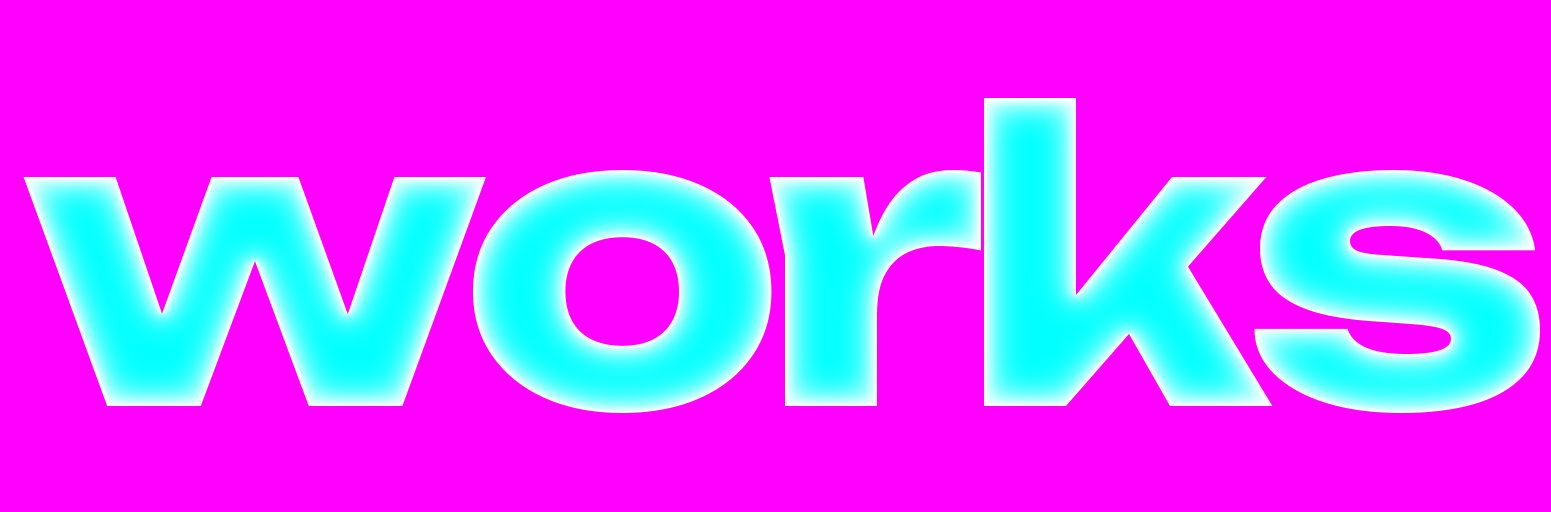
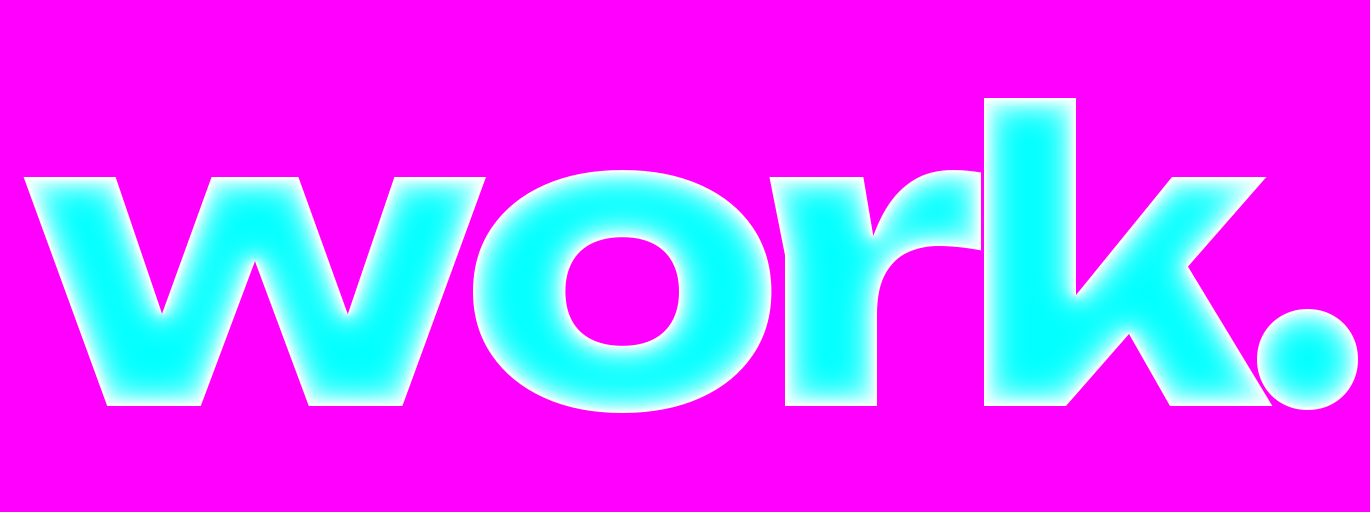
首页大标题改为 Bring an idea. / Make it / work.
- 三行全部靠左，第一行和 "work." 加光标按字形墨迹撑满同一宽度，左右边对齐
- 状态行挪到标题上方，光标改成细竖线
- 重新生成 "work." 的液态金属遮罩，生成脚本里的单词改为常量
- 网页标题和 README 同步新标题

diff --git a/src/app/motion.css b/src/app/motion.css
@@ -4241,7 +4241,7 @@ html.fx:not(.booted) .top {
   position: relative;
   display: grid;
   grid-template-columns: minmax(0, 1fr);
-  grid-template-rows: auto repeat(4, auto) auto;
+  grid-template-rows: auto auto repeat(3, auto) auto;
   perspective: 1600px;
   container-type: inline-size;
 }
@@ -4278,15 +4278,19 @@ html.fx:not(.booted) .top {
   font-weight: 400;
   color: var(--mute);
 }
+/* Flush both edges: "Bring an idea." and "work." + caret fill the width, measured
+   on the glyph ink of Unbounded 800 (not the side bearings):
+   "Bring an idea." 7.822em wide, starts .0436em in; "Make it" starts .0648em in;
+   "work." 3.274em + .22em caret. --height-fit shrinks every line together. */
 .h1x {
-  grid-row: 2 / 6;
+  grid-row: 3 / 6;
   grid-column: 1;
   display: grid;
   grid-template-rows: subgrid;
   margin: 0;
   font-family: var(--f-display);
   font-weight: 800;
-  font-size: calc(100cqw / 9.28 * var(--height-fit, 1));
+  font-size: calc(99.6cqw / 7.822 * var(--height-fit, 1));
   line-height: 0.9;
   letter-spacing: -0.055em;
   transform-style: preserve-3d;
@@ -4302,10 +4306,6 @@ html.fx:not(.booted) .top {
 }
 .hstage.intro-done .h1x .line {
   overflow: visible;
-}
-.h1x .r {
-  text-align: right;
-  align-self: end;
 }
 .h1x .dz {
   display: block;
@@ -4324,12 +4324,17 @@ html.fx:not(.booted) .top {
 .l4 {
   --z: 110px;
 }
+.h1x .line.l1 {
+  margin-left: -0.0436em;
+}
+.h1x .line.l2 {
+  margin-left: -0.0648em;
+}
 .h1x .l4 {
-  font-size: calc(99cqw / 4.32 * var(--height-fit, 1));
+  font-size: calc(99.6cqw / 3.494 * var(--height-fit, 1));
   line-height: 0.84;
   letter-spacing: -0.06em;
   padding-block: 0.02em 0.1em;
-  margin-top: 0.04em;
 }
 .h1x .fx {
   display: inline-block;
@@ -4353,9 +4358,6 @@ html.fx:not(.booted) .top {
   );
   transform: scaleX(0);
   transform-origin: 0 50%;
-}
-.h1x .r::after {
-  transform-origin: 100% 50%;
 }
 .headline-ready .h1x .line::after {
   transform: none;
@@ -4408,9 +4410,10 @@ html.fx:not(.booted) .top {
     0 0,
     0 var(--cy, 70%);
 }
+/* A thin caret, so "work." keeps the weight of the last line. */
 .h1x .cursor {
-  width: 0.46em;
-  height: 0.76em;
+  width: 0.14em;
+  height: 0.7em;
   vertical-align: -0.02em;
 }
 /* "works": liquid metal (Paper Shaders) + a build that runs on hover / click */
@@ -4498,15 +4501,16 @@ html.fx:not(.booted) .top {
     font-size: 9.5px;
   }
 }
+/* Every headline line is flush left, so the status row sits above them. */
 .hmeta {
-  grid-row: 3;
+  grid-row: 2;
   grid-column: 1;
-  align-self: center;
   justify-self: start;
   z-index: 2;
-  display: grid;
-  gap: 8px;
-  max-width: 24%;
+  display: flex;
+  flex-wrap: wrap;
+  gap: 8px 20px;
+  margin-bottom: clamp(16px, 2vw, 28px);
 }
 .hmeta span {
   display: inline-flex;
@@ -4589,9 +4593,6 @@ html.fx:not(.booted) .top {
     font-size: 13.2vw;
     transform: none !important;
   }
-  .h1x .r {
-    text-align: left;
-  }
   .h1x .fx {
     display: inline;
     white-space: normal;
@@ -4639,9 +4640,6 @@ html.fx:not(.booted) .top {
 .hmeta .live {
   white-space: nowrap;
 }
-.hmeta {
-  max-width: 34%;
-}
 .works-metal {
   inset: -0.22em -0.06em;
 }
@@ -4658,10 +4656,10 @@ html.fx:not(.booted) .top {
     padding-block: 88px 96px;
   }
   .h1x {
-    font-size: calc(100cqw / 9.28);
+    font-size: calc(99.6cqw / 7.822);
   }
   .h1x .l4 {
-    font-size: calc(99cqw / 4.32);
+    font-size: calc(99.6cqw / 3.494);
   }
   .hmeta {
     margin-bottom: 28px;
@@ -4689,8 +4687,7 @@ html.fx:not(.booted) .top {
   }
 }
 
-/* Actual self-hosted Unbounded metrics: 9.2525em for the third line.
-   Leave a small margin so rounding cannot wrap it on a narrow phone. */
+/* Lines never wrap on a phone; the sizes above already fit the width. */
 @media (max-width: 760px) {
   .h1x .fx {
     display: inline-block;

diff --git a/src/components/hero-headline.tsx b/src/components/hero-headline.tsx
@@ -328,10 +328,7 @@ export function HeroHeadline({
         <i />
         <b className="dim-f tnum">UNBOUNDED 800</b>
       </div>
-      <h1
-        className="h1x"
-        aria-label="Bring an idea. Leave with something that works."
-      >
+      <h1 className="h1x" aria-label="Bring an idea. Make it work.">
         <span className="line l1" style={lineStyle(0)} aria-hidden>
           <span className="dz">
             <span className="fx">
@@ -350,20 +347,15 @@ export function HeroHeadline({
             </span>
           </span>
         </span>
-        <span className="line l2 r" style={lineStyle(1)} aria-hidden>
+        <span className="line l2" style={lineStyle(1)} aria-hidden>
           <span className="dz">
-            <span className="fx">Leave with</span>
+            <span className="fx">Make it</span>
           </span>
         </span>
-        <span className="line l3" style={lineStyle(2)} aria-hidden>
-          <span className="dz">
-            <span className="fx chrome2">something that</span>
-          </span>
-        </span>
-        <span className="line l4" style={lineStyle(3)} aria-hidden>
+        <span className="line l4" style={lineStyle(2)} aria-hidden>
           <span className="dz">
             <span className="works-wrap">
-              <span className="fx chrome2 works-text">works</span>
+              <span className="fx chrome2 works-text">work.</span>
               <WorksMetal />
               <span className="wstat mono">
                 <i className="led" />

diff --git a/src/components/works-metal.tsx b/src/components/works-metal.tsx
@@ -3,7 +3,7 @@
 import { useEffect, useRef } from "react";
 import type { ShaderMount } from "@paper-design/shaders";
 
-/** Height map: scripts/generate-works-metal.py, Unbounded 800, spacing -.06em.
+/** Height map of "work.": scripts/generate-works-metal.py, Unbounded 800, spacing -.06em.
  * It includes .06em horizontal / .22em vertical padding, like polish-demo.
  * Regenerate after changing the word/font; the browser never processes text. */
 export function WorksMetal() {

diff --git a/src/app/layout.tsx b/src/app/layout.tsx
@@ -35,7 +35,7 @@ const notoSc = Noto_Sans_SC({
 export const metadata: Metadata = {
   metadataBase: new URL(siteUrl),
   title: {
-    default: "BuilderSpace · Bring an idea. Leave with something that works.",
+    default: "BuilderSpace · Bring an idea. Make it work.",
     template: "%s · BuilderSpace",
   },
   description: "从 UNSW 起步的中英双语创客社：找队友，每周一起把项目做上线。",

diff --git a/scripts/generate-works-metal.py b/scripts/generate-works-metal.py
@@ -14,6 +14,8 @@ import numpy as np
 from PIL import Image, ImageDraw, ImageFont
 
 root = Path(__file__).resolve().parents[1]
+# The last headline line in src/components/hero-headline.tsx.
+WORD = 'work.'
 if len(sys.argv) > 1:
     font_path = Path(sys.argv[1])
 else:
@@ -33,16 +35,16 @@ size = 400
 font = ImageFont.truetype(str(font_path), size)
 font.set_variation_by_axes([800])
 spacing = -0.06 * size
-width = round(font.getlength('works') + 5 * spacing)
+width = round(font.getlength(WORD) + len(WORD) * spacing)
 height = round(size * .84)
 px, py = round(size * .06), round(size * .22)
 alpha = Image.new('L', (width + 2 * px, height + 2 * py))
 g = ImageDraw.Draw(alpha)
 # Centre the visual glyph box, like the prototype's canvas text mask.
-bbox = font.getbbox('works', anchor='ls')
+bbox = font.getbbox(WORD, anchor='ls')
 baseline = py + (height - bbox[1] - bbox[3]) / 2
 x = px
-for letter in 'works':
+for letter in WORD:
     g.text((x, baseline), letter, fill=255, font=font, anchor='ls')
     x += font.getlength(letter) + spacing
 

diff --git a/README.md b/README.md
@@ -2,7 +2,7 @@
 
 一个从 UNSW 起步的中英双语创客社团的官网与项目广场。
 
-**Bring an idea. Leave with something that works.**
+**Bring an idea. Make it work.**
 
 - 交互原型（设计基准）：[BobLee-tech/builderspace-demo](https://github.com/BobLee-tech/builderspace-demo)
 - 需求来源：PRD v0.5 第四节「官网与项目广场」
